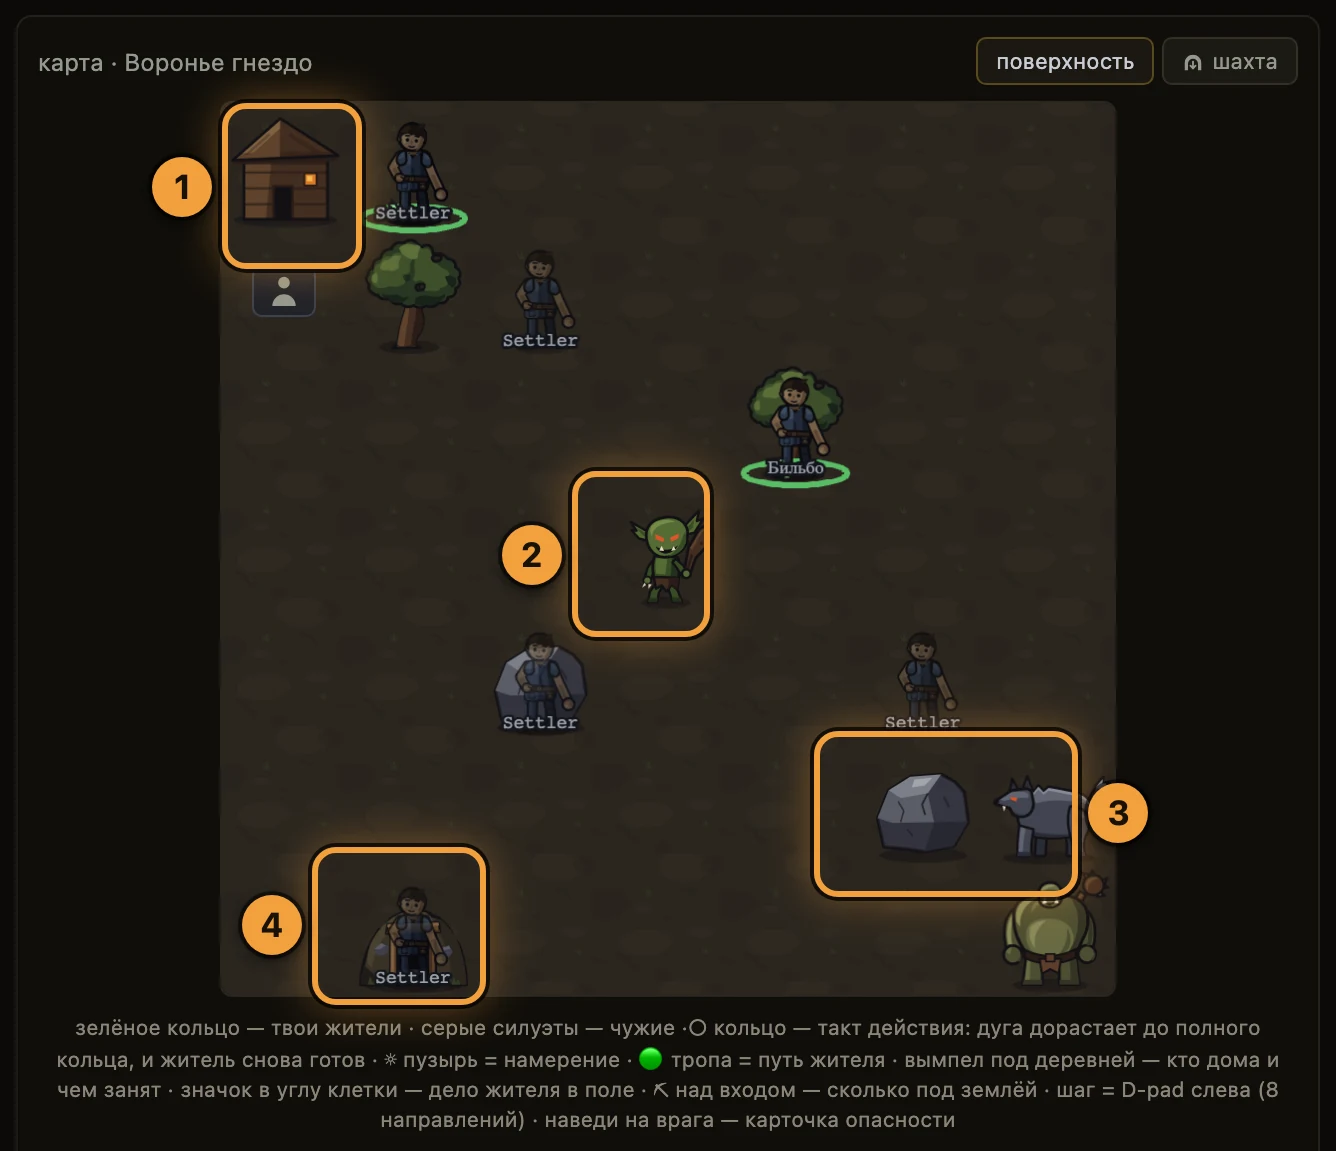
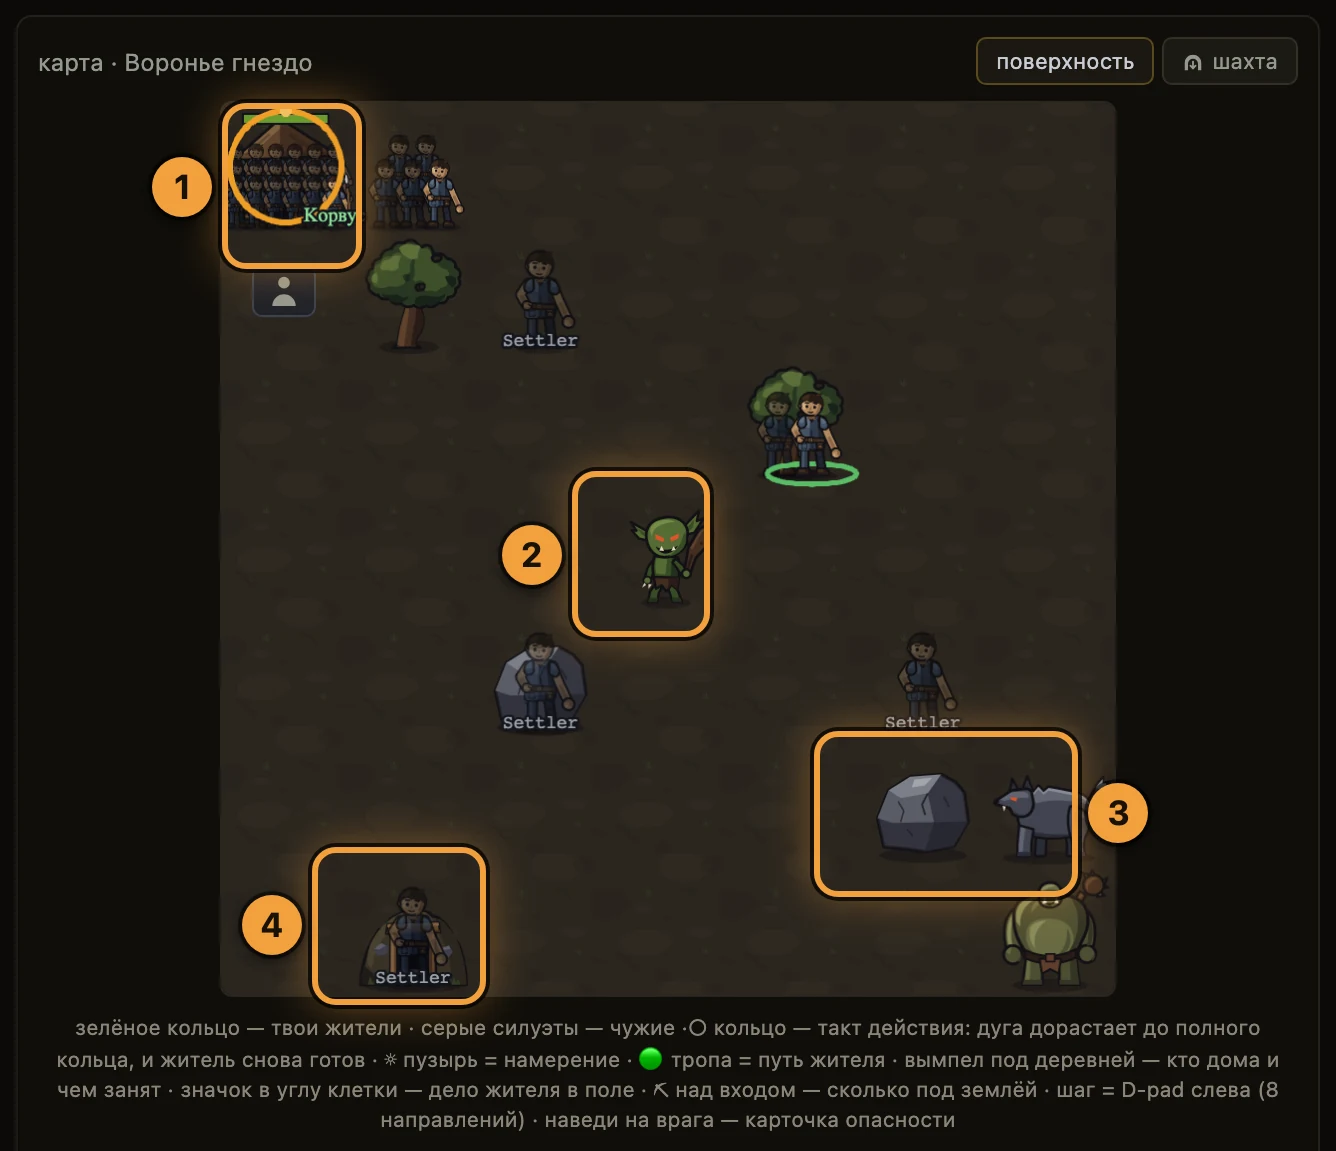
docs(мир-и-карта): жители снова видны на карте — толпа в клетке и позы работы
Игра снова рисует жителей на домашней клетке (D-116), поэтому страница
получила два раздела:

- «Когда на клетке несколько жителей» — почему они расходятся по местам
  вместо одного спрайта, что даёт наведение (имя того, на кого навёл) и
  щелчок (сделать своим активным), и почему в толпе не подписаны имена;
- «Что житель делает — видно по нему самому» — одиннадцать дел различаются
  позой и инструментом в руке, мусор из-под удара называет материал. С
  честной оговоркой: дольше всего идёт крафт, остальные городские дела
  занимают около секунды, и их позы застанешь только случайно.

Кадры /world пересняты с живого прода (правило репо: интерфейс поменялся —
кадр переснимается). Легенда mir-karta переписана под то, что на кадре
реально видно: пункт 1 теперь про домашнюю клетку с толпой, пункт 4
объясняет, что вход в Подземье заслонил чужой житель — клетка одна, а
стоять на ней могут многие.

Changed region(s): [[0.1534, 0.0912, 0.3683, 0.2129], [0.5524, 0.3041, 0.6445, 0.4257]]

diff --git a/docs/03-системы/мир-и-карта.md b/docs/03-системы/мир-и-карта.md
@@ -43,6 +43,19 @@
 - Ваши жители помечены зелёным кольцом у ног, чужие — блёклым серым силуэтом.
 - Житель, ушедший в Подземье, с карты пропадает; над входом остаётся значок «сколько под землёй».
 
+### Когда на клетке несколько жителей
+
+Домашняя клетка — то место, где жители копятся: сюда все возвращаются и отсюда все уходят. Поэтому
+на одной клетке они **не сваливаются в один спрайт, а расходятся по местам**: становятся в ряд (при
+большой толпе — в два-три ряда) и чуть уменьшаются, чтобы всех было видно. Один житель на клетке
+выглядит как обычно, во весь рост.
+
+- **Наведите курсор** — всплывёт имя того, на кого вы навели, а не случайного соседа.
+- **Щёлкните** по своему жителю — он станет тем, кем вы управляете (то же, что выбрать его в
+  «Жителях»).
+- В толпе подписи имён не рисуются — иначе они склеились бы в кашу. Имя даёт наведение, а полный
+  список — вымпел над деревней: щёлкните по нему, и он раскроется поимённо.
+
 <figure class="shot" markdown>
 ![Экран «за воротами» целиком](../assets/img/mir-tur.webp)
 <figcaption markdown="span">Экран **«за воротами»**: карта мира, панель жителя и хроника его шагов</figcaption>
@@ -86,10 +99,12 @@
 </figure>
 
 <div class="callouts" markdown>
-1. **Свой активный житель** — золотая дуга вокруг клетки означает «идёт такт действия».
+1. **Домашняя клетка** — жители стоят на ней толпой, каждый на своём месте; у активного вокруг
+   клетки золотая дуга «идёт такт действия», под ним подписано имя.
 2. **Враг** стоит на своей клетке — ударить его можно, только встав на неё.
-3. **Камень и волк рядом** — ресурс и враг занимают каждый свою клетку карты.
-4. **Вход в Подземье** — единственная клетка, с которой спускаются вниз.
+3. **Камень и волк рядом** — ресурс и враг занимают каждую свою клетку карты.
+4. **Вход в Подземье** — единственная клетка, с которой спускаются вниз. На кадре её занял чужой
+   житель: клетка одна, а стоять на ней могут многие.
 </div>
 
 <figure class="shot" markdown>
@@ -110,6 +125,21 @@
 - Действие раньше срока → `409 character_on_cooldown`, остаток времени назван в тексте ошибки.
 - Точные секунды называет сам житель (поле `action_seconds`) и вкладка **«статы»** экрана
   **«справочник»**.
+
+### Что житель делает — видно по нему самому
+
+Пока идёт такт, житель на карте не «покачивается вообще», а занят **конкретным делом**: рубит
+топором, бьёт киркой, сражается, пилит на лесопилке, кузнечит молотом, строит, читает книгу,
+рассчитывается монетой, кланяется в храме или возится со своим снаряжением. Инструмент в руке
+подсказывает ремесло, а мусор из-под удара — материал: из-под топора летят щепки, из-под кирки
+каменная крошка, из-под молота искры, из-под пилы сыплются опилки.
+
+Важная оговорка: **дольше всего идёт крафт** — на него и смотреть удобнее всего. Стройка, учёба,
+торговля, лечение и смена снаряжения занимают около секунды, поэтому их позы вы застанете только
+если попадёте ровно в момент.
+
+Отдельно от позы работает **дуга готовности** вокруг активного жителя: она дорастает до полного
+кольца ровно тогда, когда житель снова свободен.
 
 ## Дом: возврат, склад, смерть
 
@@ -182,8 +212,12 @@
 
     - `Design/Механики/Топология мира.md` — сетка клеток, направленное движение, «город = домашний тайл», публичный слой чужих жителей
     - `Design/Механики/Такт действия.md` — множители такта по типам действий, «действие сразу — такт после», контракт наружу
-    - `Design/Механики/Работа и присутствие.md` — `location`/`work`, чип «N под землёй», «про чужого только имя и позиция»
+    - `Design/Механики/Работа и присутствие.md` §7 — `location`/`work`, чип «N под землёй», «про чужого только имя и
+      позиция», слоты толпы в клетке и маппинг «дело → поза» (D-116)
     - `Design/Механики/Регенерация hp.md` — пассивный реген, домашняя клетка ×3, исход гибели
     - `Design/Экраны/Экраны и зоны.md` — модель «база ↔ мир за воротами», раздел ответственности «игрок ↔ агент»
     - Код: `server/game.py` (`get_map`, `MOVE_STEPS`, `move_dir`, `_on_own_tile`, `_auto_bank`, `ACTION_TACT`, `_location`), `server/db.py` (`seed_world`), `server/config.py` (`map_cache_ttl_s`, `respawn_hp`), `server/errors.py` (коды отказов)
-    - Код SPA: `web-spa/src/screens/World.svelte` (тумблер «общий мир», пад ходьбы, кнопки действий, легенда), `web-spa/src/components/PixiMap.svelte` (карточки при наведении, два клика по карте), `web-spa/src/lib/pixiMap.ts` (свои и чужие жители)
+    - Код SPA: `web-spa/src/screens/World.svelte` (тумблер «общий мир», пад ходьбы, кнопки действий, легенда),
+      `web-spa/src/components/PixiMap.svelte` (карточки при наведении, хит-тест толпы, два клика по карте),
+      `web-spa/src/lib/pixiMap.ts` (свои и чужие жители), `web-spa/src/lib/crowd.ts` (кто где стоит внутри клетки),
+      `web-spa/src/lib/workPose.ts` (одиннадцать поз работы и инструмент в руке)
